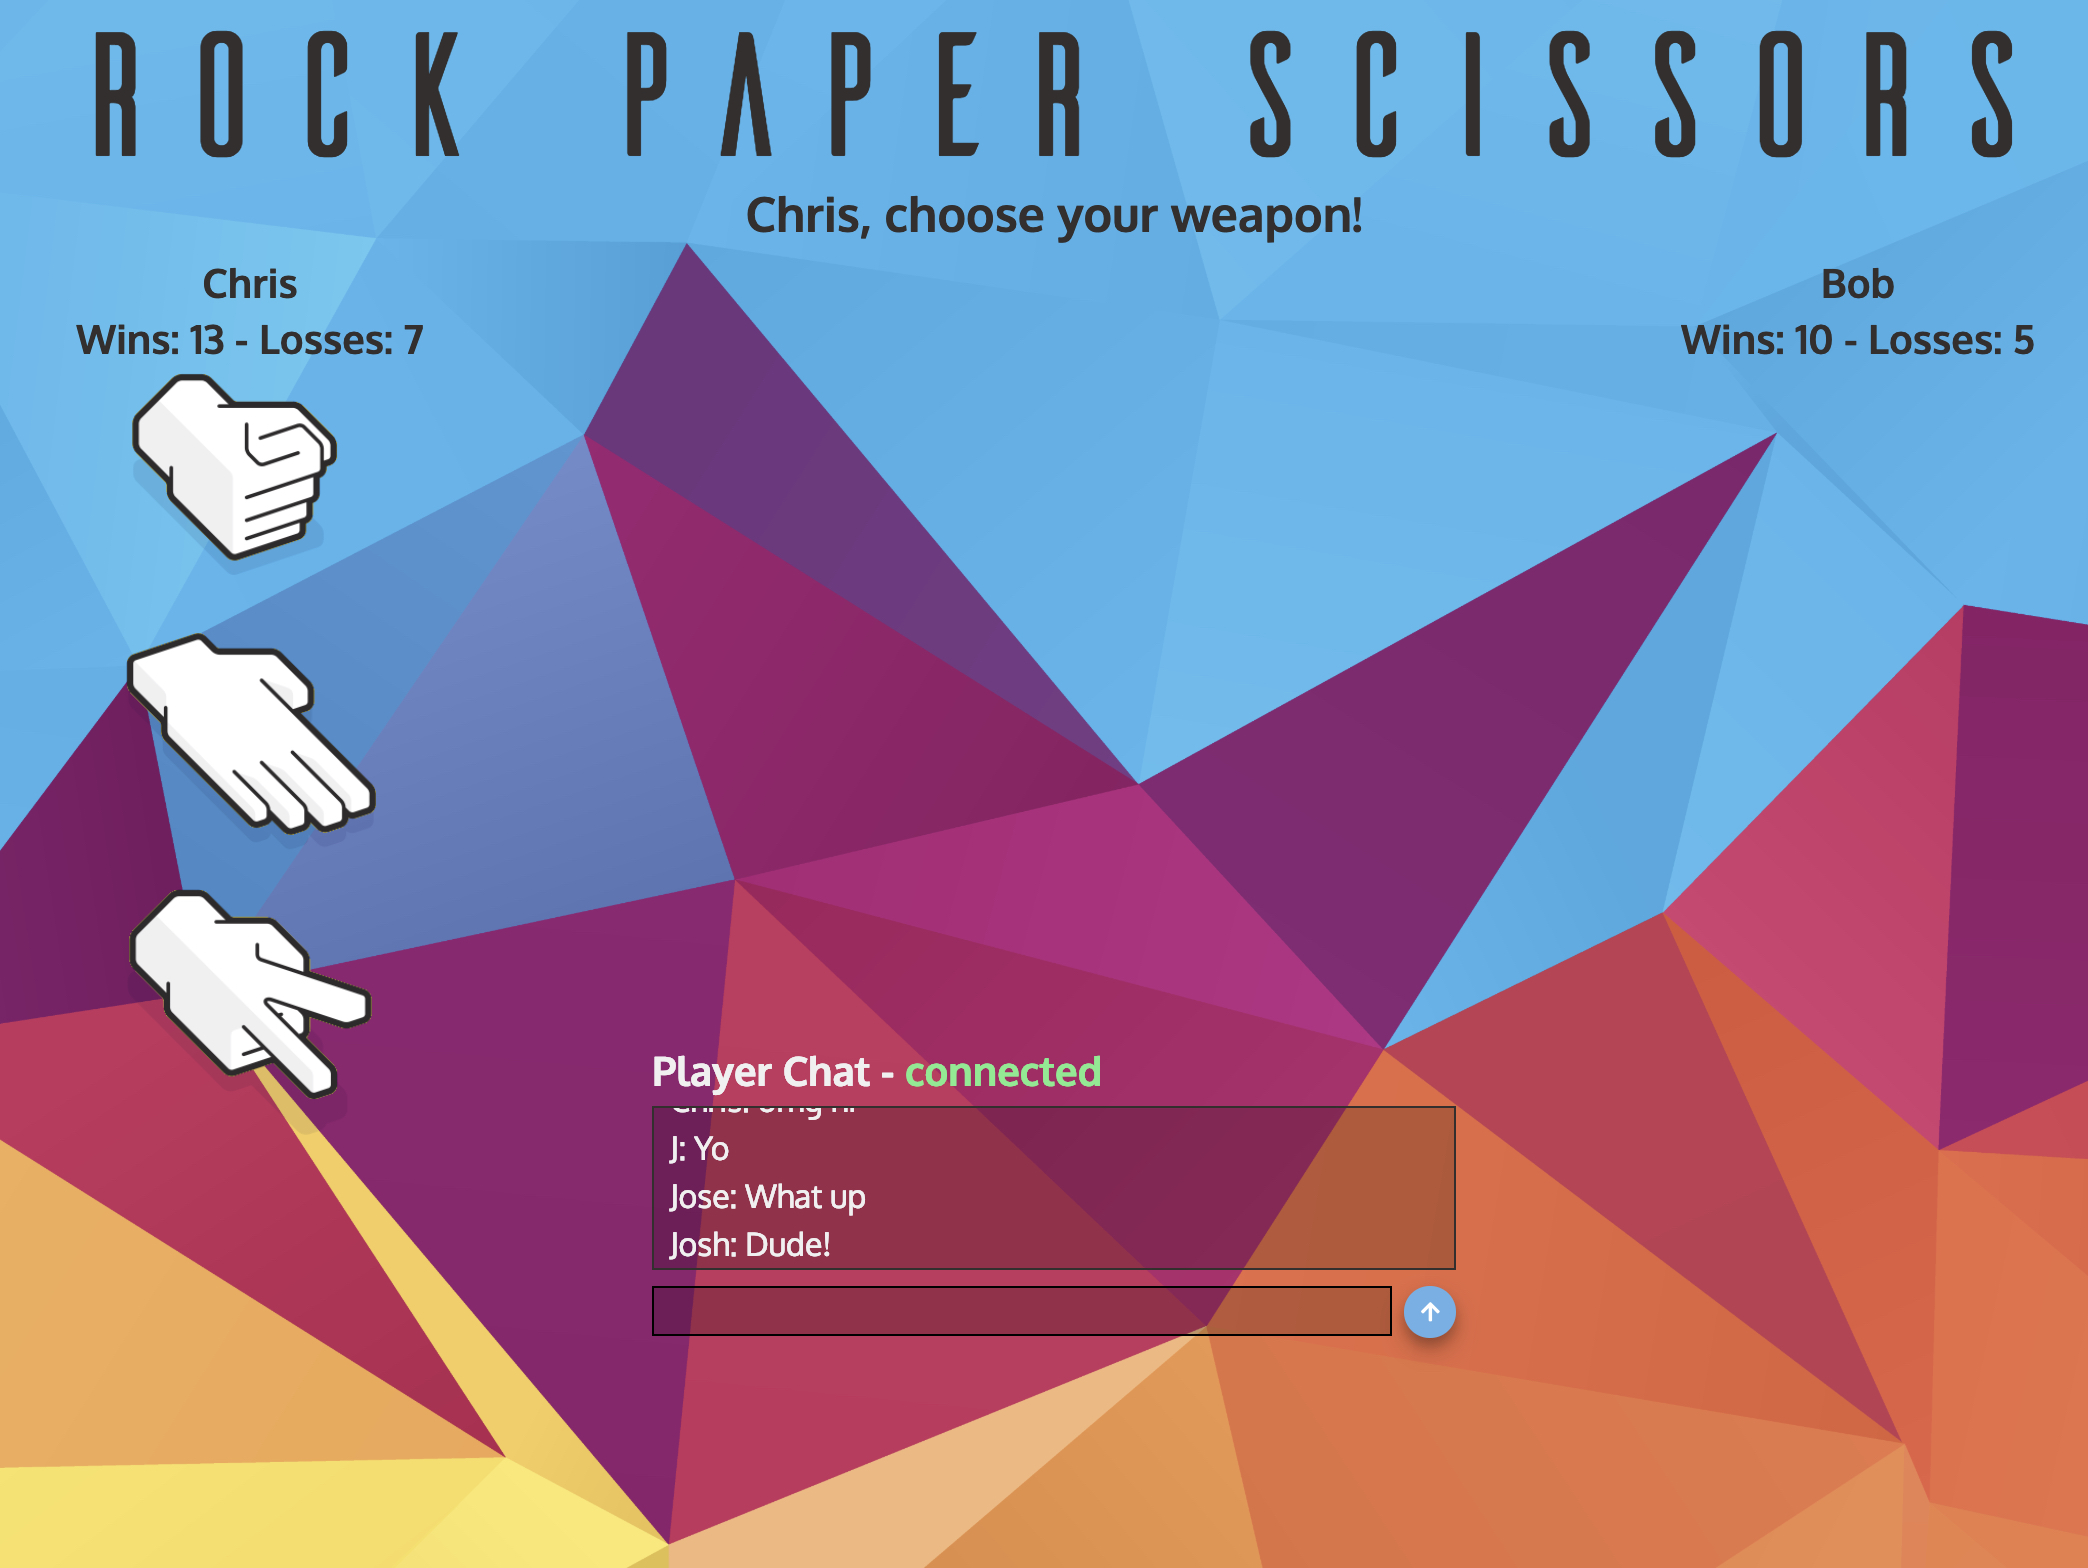
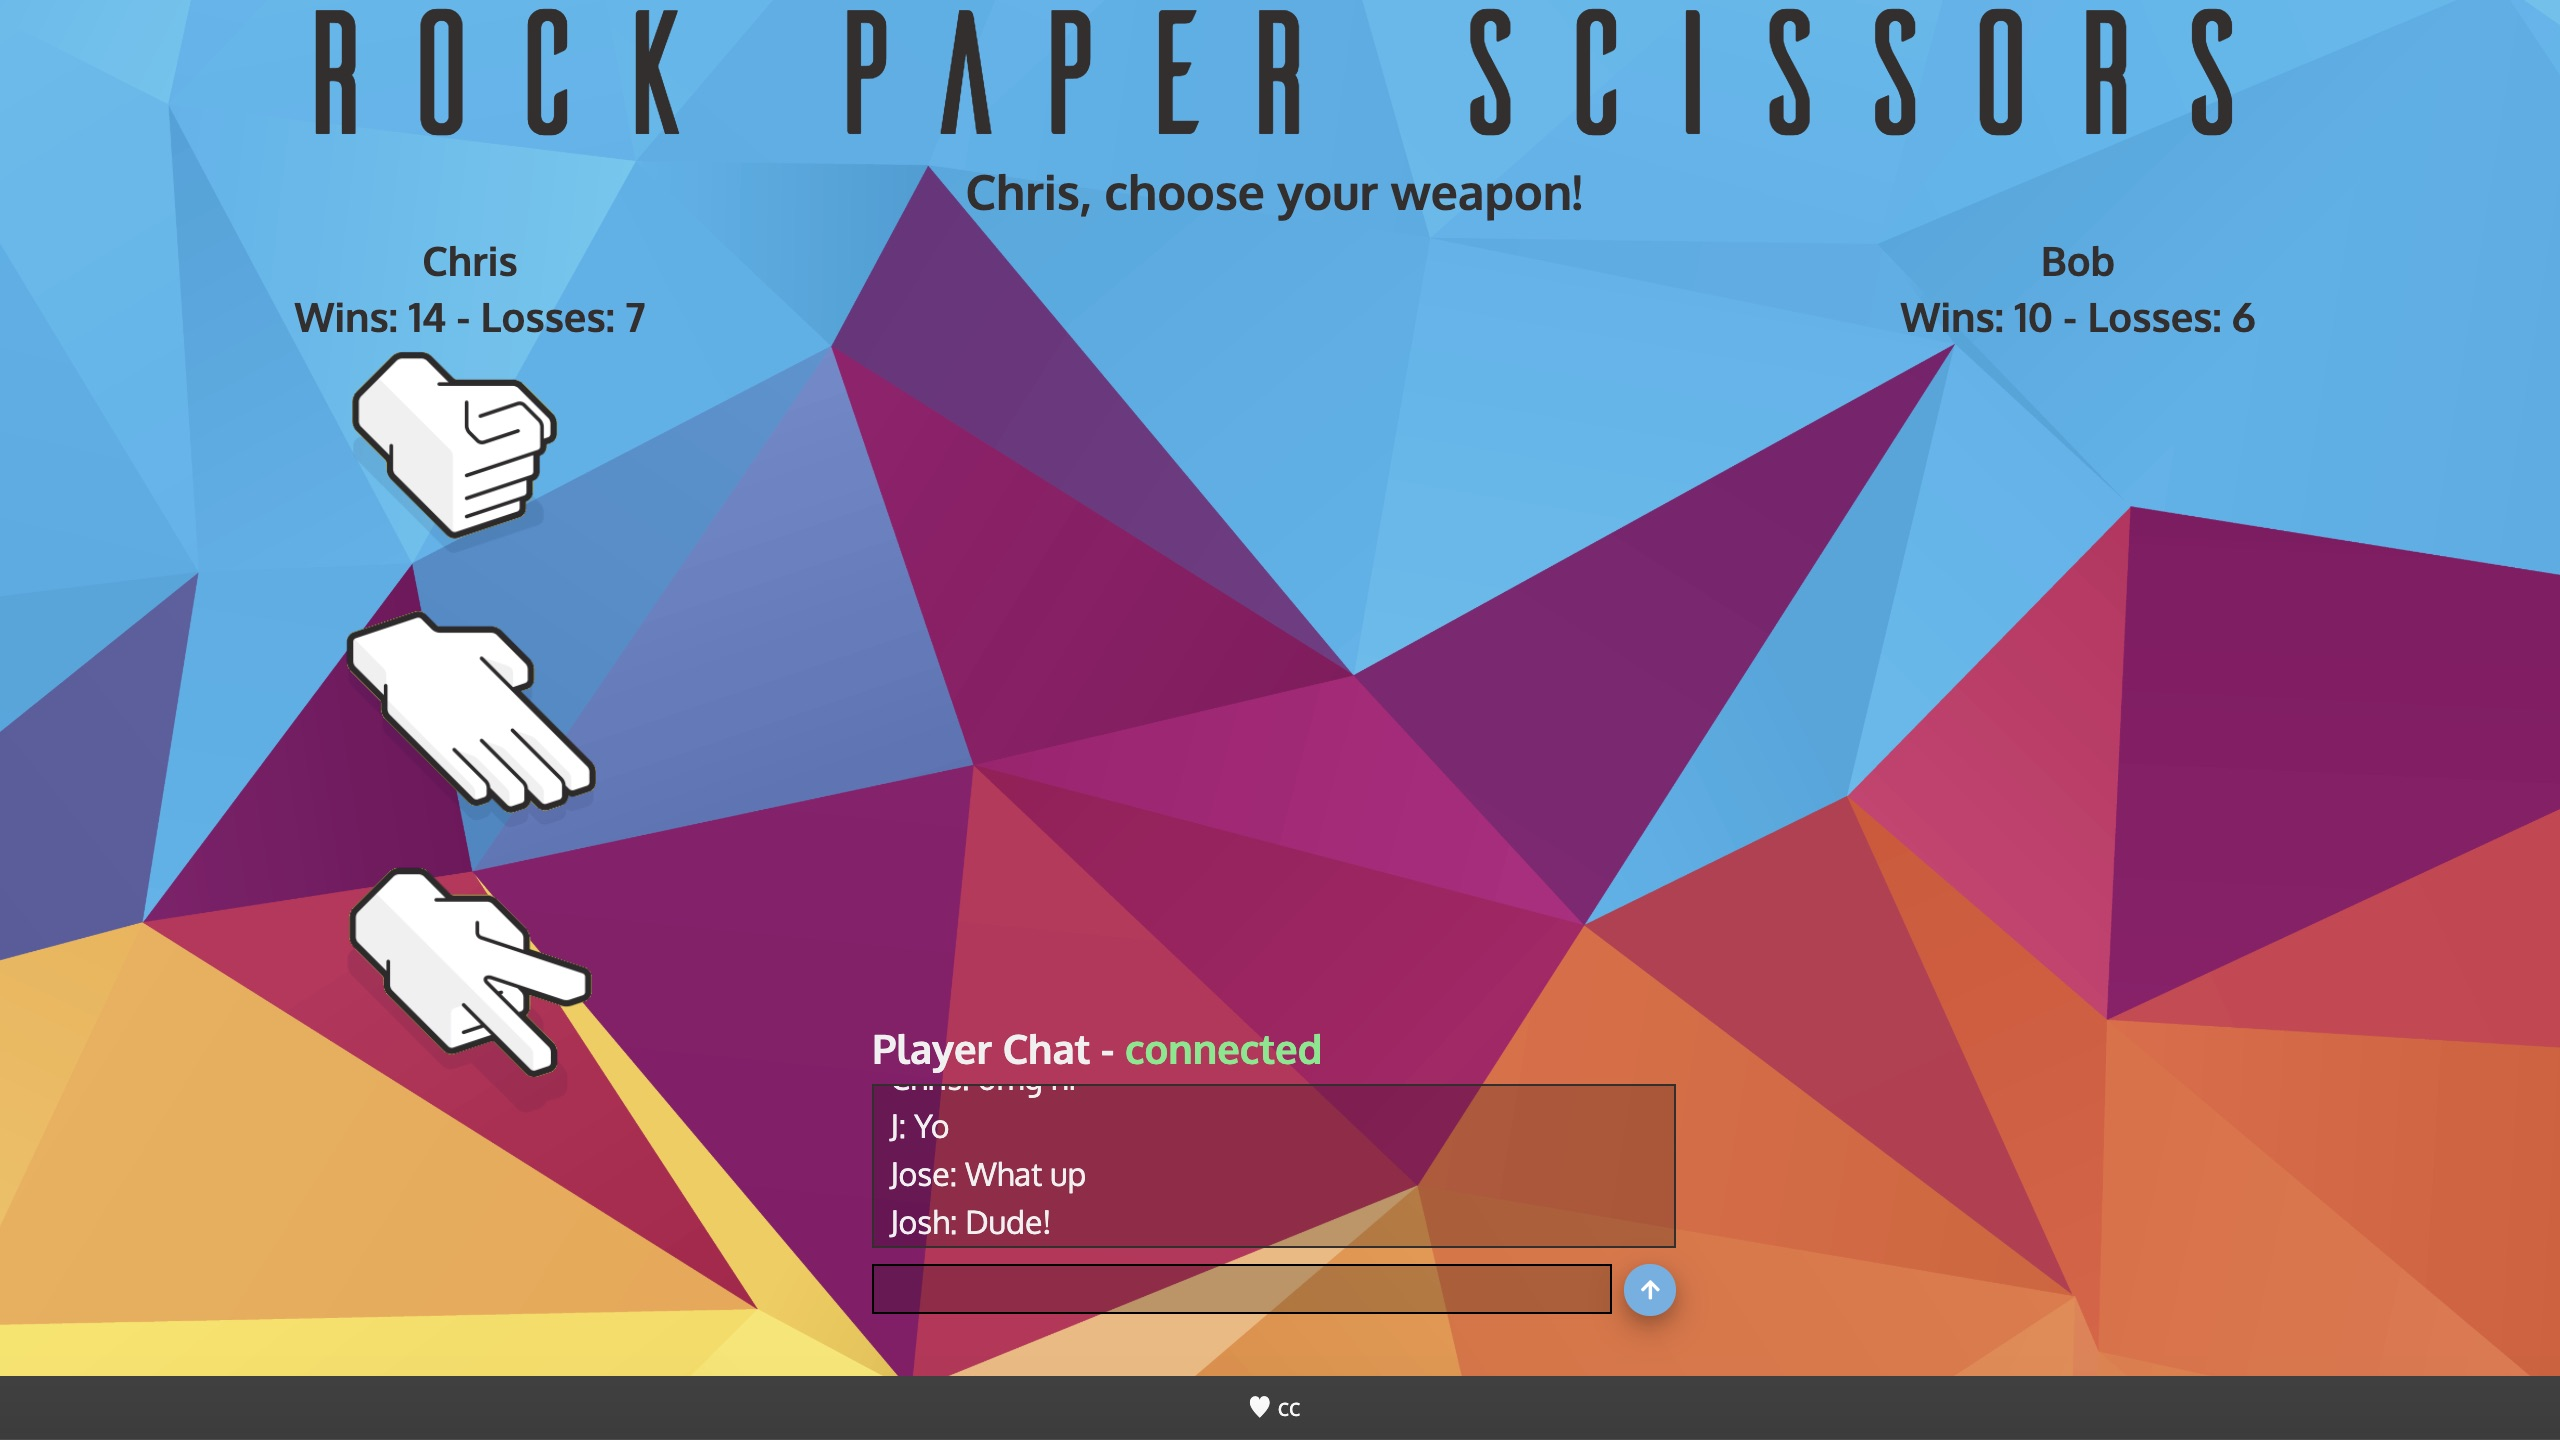
update readme, add .gitignore

diff --git a/README.md b/README.md
@@ -1,12 +1,23 @@
 # Rock, Paper, Scissors - Multiplayer
 
+![RPS - Multiplayer](/assets/images/thumbnail.jpg)
+
+## Overview
+
+This version of Rock, Paper, Scissors is played by two different players on different devices. Neither player can see the other's selection until the round is complete. Each player's stats persist between sessions and there is a custom built chat feature that players can use during the game.
+
 ## Game Start
+
 Players begin by entering their name. If player is returning their Win/Loss record will be displayed beneath their name after they have logged in. Once both players have logged in, game chat becomes available at the bottom of the screen.
 
 ## Gameplay
+
 Player One makes their selection while Player Two waits their turn. Neither player is able to see the selections of the other. Once both playeres have made their selection, the result will be shown, stats will update, and an option to start a new game appears. Starting a new game requires both players to enter their names again.
 
 ## Known Issues
-* Mobile styles are a work in progress.
-* Refreshing the page in the middle of a game can prevent player progress. For the best experience, please do not refresh the page.
-* Occasionally, the page can be slow to render or update. Patience is a virtue.
+
+- Mobile styles are a work in progress.
+- Refreshing the page in the middle of a game can prevent player progress. For the best experience, please do not refresh the page.
+- Occasionally, the page can be slow to render or update. Patience is a virtue.
+
+♥ cc
